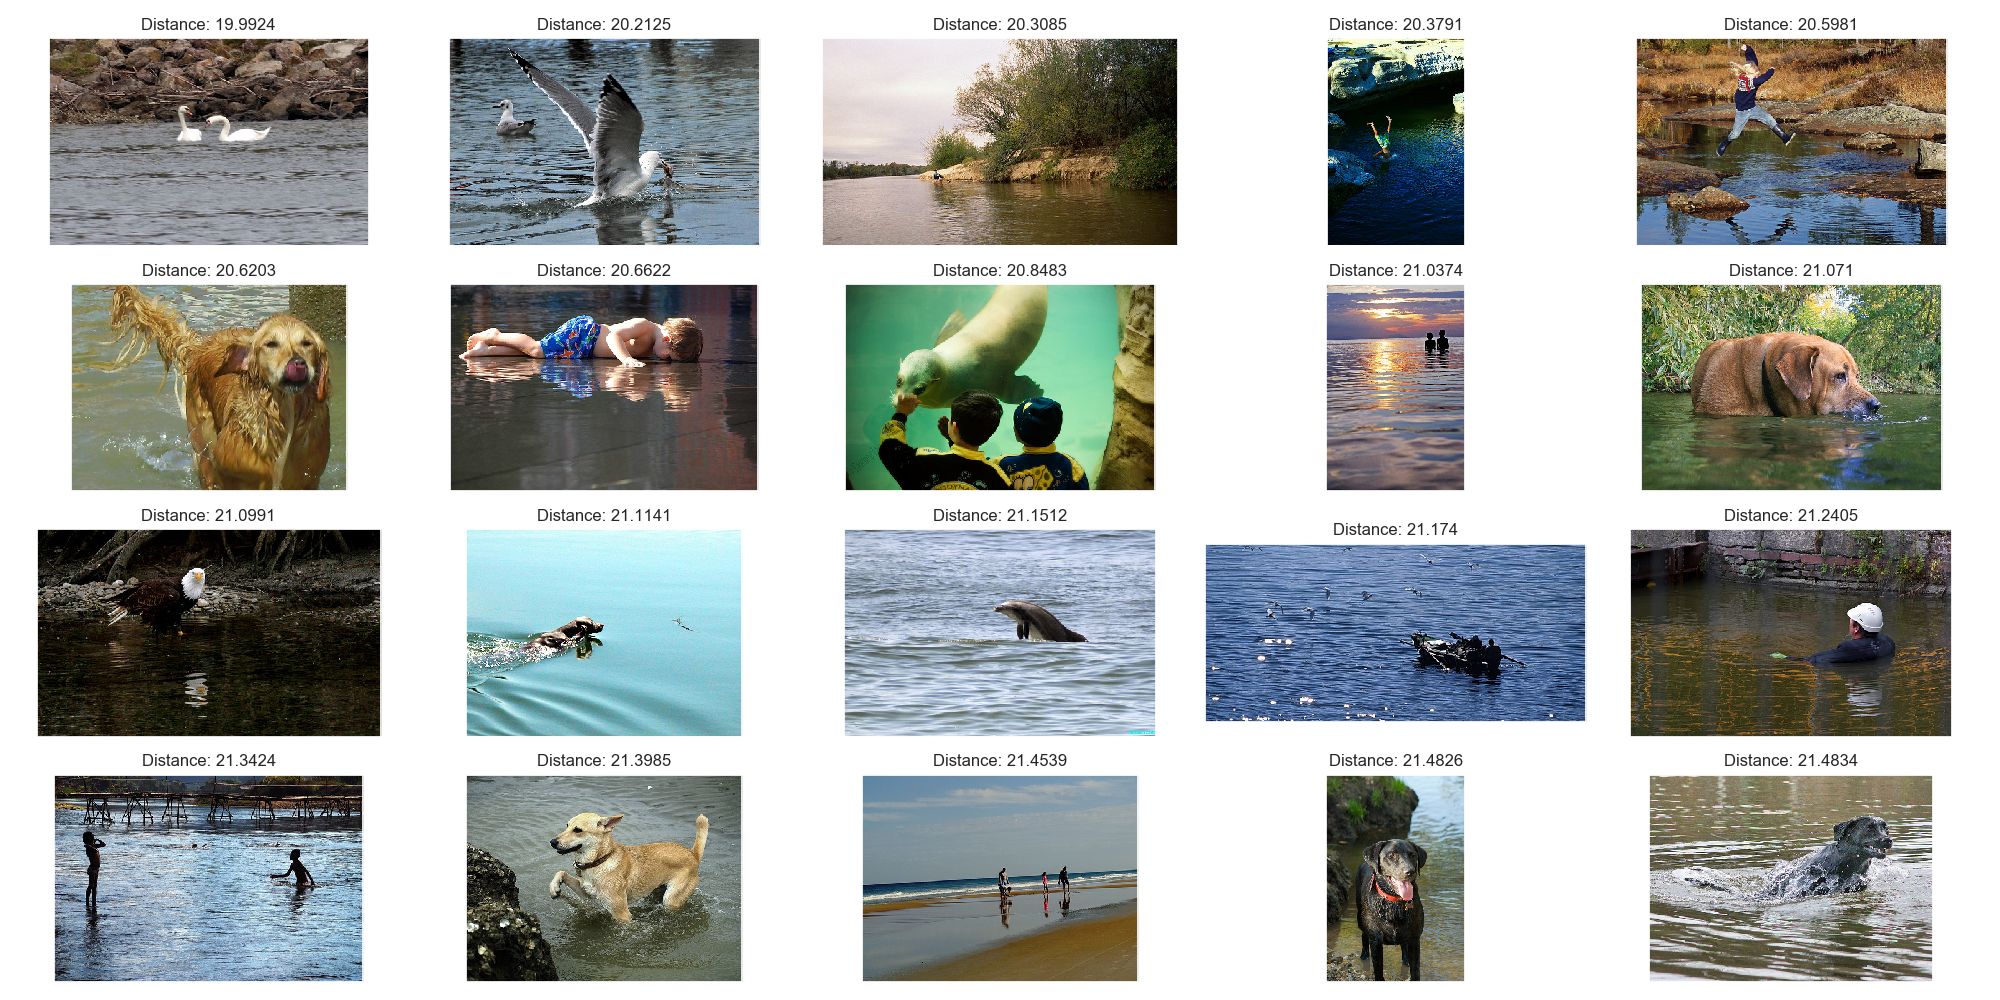
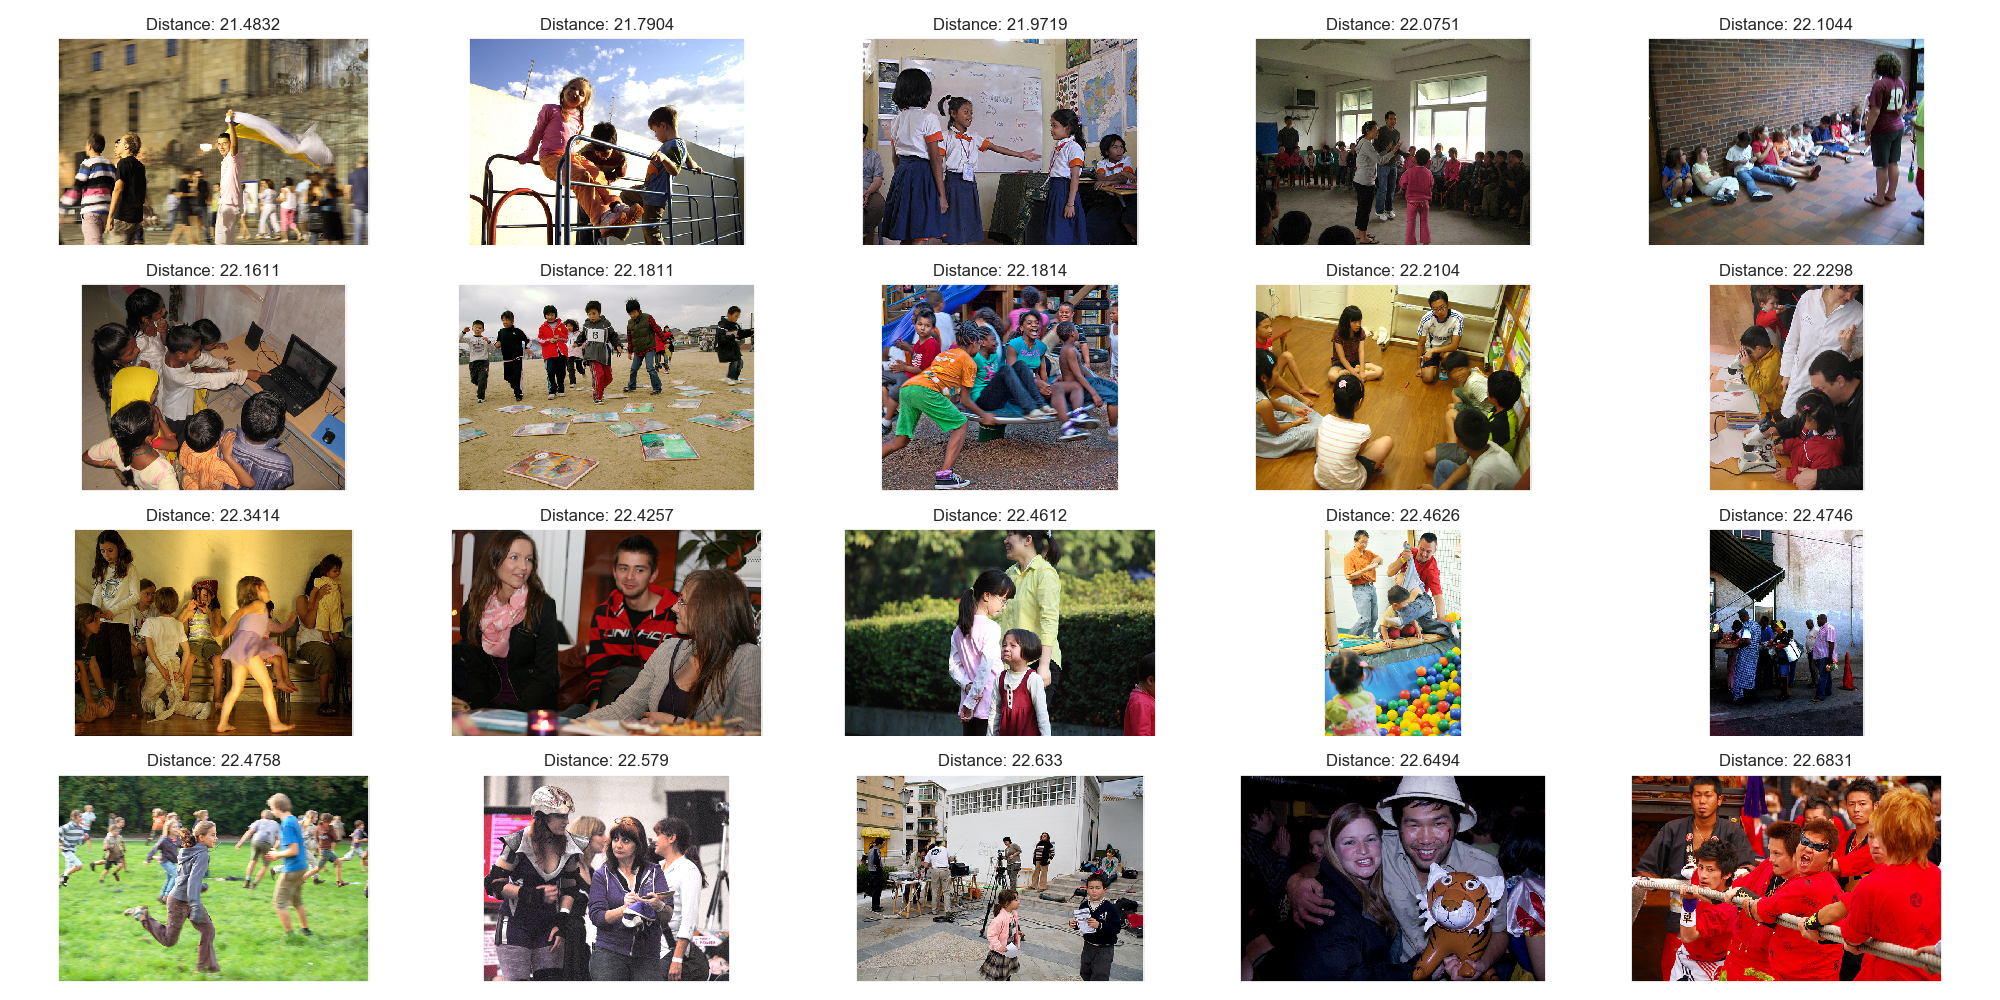
updated figures for readme file

diff --git a/include/search_engine/main.py b/include/search_engine/main.py
@@ -91,20 +91,21 @@ Se_new_caption_tl.prepare_image_database(
     save_dir_database=DATABASE_IMAGE_DIR_TL,
     filename_database=DATABASE_IMAGE_FILE_TL,
     database_mode="all_data",   # test, training, val or all_data"
-    batch_size=512,
+    batch_size=256,
     verbose=True
 )
+
 # %%
 # Step 3: run pipeline
 # show 10 closest images for caption '361092202.jpg#4'
 Se_new_caption_tl.new_caption_pipeline(new_id='361092202.jpg#4', k=10)
 print(Se_new_caption_tl.new)
 plt.tight_layout()
-# plt.savefig("include/output/figures/triplet_loss/fig1_readme.png")
+plt.savefig("include/output/figures/triplet_loss/fig1_readme.png")
 # %%
 # add new caption and show 20 best photos
-Se_new_caption_tl.new_caption_pipeline(new="Water sea swimming", k=20)
-# plt.savefig("include/output/figures/triplet_loss/fig2_readme.png")
+Se_new_caption_tl.new_caption_pipeline(new="Group of children are playing", k=20)
+plt.savefig("include/output/figures/triplet_loss/fig2_readme.png")
 # %% A.2) search engine for new image
 
 # Step 1: create search engine object
@@ -117,6 +118,8 @@ Se_new_image_tl = search_engine.SearchEngine(
     database_captions_path=DATABASE_CAPTION_DIR_TL + DATABASE_CAPTION_FILE_TL,
     image_dir=IMAGE_DIR
 )
+
+
 # %%
 # Step 2: load database (you only need to do this once, except if you have a new model)
 # This will take a moment (1min)
@@ -133,12 +136,13 @@ Se_new_image_tl.prepare_caption_database(
 # Step 3: run pipeline
 # print top 10 captions for image "361092202.jpg"
 Se_new_image_tl.new_image_pipeline(new_id="361092202.jpg", k=10)
-plt.tight_layout()
-# plt.savefig("include/output/figures/triplet_loss/fig3_readme.png")
+plt.savefig("include/output/figures/triplet_loss/fig3_readme.png")
+
 
 # ------------------------------------------------------------------------------------------
 # B) HASHING (PART 2)
 # ------------------------------------------------------------------------------------------
+
 # %% B.1) search engine for new caption
 
 # Step 1: create search engine object
@@ -151,13 +155,19 @@ Se_new_caption_h = search_engine.SearchEngine(
     image_dir=IMAGE_DIR
 )
 # %%
+
+Se_new_caption_h.load_database_images()
+Se_new_caption_h.load_database_captions()
+Se_new_caption_h.get_map10()
+
+# %%
 # Step 2: load database (you only need to do this once, except if you have a new model)
 # This will take a moment (1min)
 Se_new_caption_h.prepare_caption_database(
     path_raw_data=PATH_RAW_CAPTION_FEATURES,
     save_dir_database=DATABASE_CAPTION_DIR_H,
     filename_database=DATABASE_CAPTION_FILE_H,
-    database_mode="all_data",   # test, training, val or all_data"
+    database_mode="test",   # test, training, val or all_data"
     batch_size=512,
     verbose=True
 )
@@ -170,7 +180,7 @@ plt.tight_layout()
 # plt.savefig("include/output/figures/hashing/fig1_readme.png")
 # %%
 # add new caption and show 20 best photos
-Se_new_caption_h.new_caption_pipeline(new="Water sea swimming", k=20)
+Se_new_caption_h.new_caption_pipeline(new="Group of children are playing", k=20)
 # plt.savefig("include/output/figures/hashing/fig2_readme.png")
 
 
@@ -192,7 +202,7 @@ Se_new_image_h.prepare_caption_database(
     path_raw_data=PATH_RAW_CAPTION_FEATURES,
     save_dir_database=DATABASE_CAPTION_DIR_H,
     filename_database=DATABASE_CAPTION_FILE_H,
-    database_mode="all_data",   # test, training, val or all_data"
+    database_mode="test",   # test, training, val or all_data"
     batch_size=1024,
     verbose=True
 )

diff --git a/include/part1/triplet_loss/main.py b/include/part1/triplet_loss/main.py
@@ -38,6 +38,7 @@ SAVE_BOW_MODEL = 'include/output/model/triplet_loss/caption_bow_model.pkl'
 MODEL_JSON_PATH = 'include/output/model/triplet_loss/best_model.json'
 MODEL_WEIGHTS_PATH = 'include/output/model/triplet_loss/best_model.h5'
 TRIPLET_MARGIN = 300
+STEMMING = True
 sns.set()
 # %% read in image model
 image_train, image_val, image_test = preprocessing.read_split_images(path=PATH)
@@ -57,16 +58,14 @@ caption_test = json.load(open('include/output/data/test.json', 'r'))
 # %% clean captions (don't run this more than once or
 # you will prune your caption dictionary even further as it has the same variable name)
 
-# experiment with it: my experience: seems to work better when training
-stemming = True
 caption_train = preprocessing.clean_descriptions(
-    descriptions=caption_train, min_word_length=2, stem=stemming, unique_only=False
+    descriptions=caption_train, min_word_length=2, stem=STEMMING, unique_only=False
 )
 caption_val = preprocessing.clean_descriptions(
-    descriptions=caption_val, min_word_length=2, stem=stemming, unique_only=False
+    descriptions=caption_val, min_word_length=2, stem=STEMMING, unique_only=False
 )
 caption_test = preprocessing.clean_descriptions(
-    descriptions=caption_test, min_word_length=2, stem=stemming, unique_only=False
+    descriptions=caption_test, min_word_length=2, stem=STEMMING, unique_only=False
 )
 
 # %% convert to bow
@@ -169,7 +168,7 @@ caption_model, image_model = load_model.load_submodels(
 # %%
 # -----------------------------------------
 # Test caption ranking on TEST DATA
-# ----------------------------------------
+# -----------------------------------------
 # index 1 are the positive captions
 # reshape=True if you only have one vector
 

diff --git a/include/part2_skeleton/losses.py b/include/part2_skeleton/losses.py
@@ -31,10 +31,8 @@ def biranking_loss(a, b, margin, eps=1e-8):
 def cross_modal_hashing_loss(S, F, G, B, gamma, eta):
     # enforce cross-modal similarity
     theta = 0.5 * torch.mm(F.t(), G)
-    dumi1 = S.type(torch.float) * theta.type(torch.float)
-    dumi2 = torch.log(1 + torch.exp(theta)).type(torch.float)
-    term1 = - torch.sum(dumi1 - dumi2)
-    #term1 = - torch.sum((S * theta - torch.log(1 + torch.exp(theta))))
+
+    term1 = - torch.sum((S * theta - torch.log(1 + torch.exp(theta))))
     # enforce binary codes to preserve cross-modal similarity
     term2 = gamma * (torch.norm(B - F) ** 2 + torch.norm(B - G) ** 2)
 
@@ -44,8 +42,8 @@ def cross_modal_hashing_loss(S, F, G, B, gamma, eta):
     loss = torch.sum(term1 + term2 + term3)
     num_sample = S.size(0)
 
-    # print('loss {} => {}'.format(loss.item()/num_sample, (t1.item() / num_sample, t2.item() / num_sample)))
-    #print('loss {} => {}'.format(loss.item() / num_sample,
-    #                             (term1.item() / num_sample, term2.item() / num_sample, term3.item() / num_sample)))
+    # print('loss {} => {}'.format(loss.item()/num_sample, (term1.item() / num_sample, term2.item() / num_sample)))
+    print('loss {} => {}'.format(loss.item() / num_sample,
+                                 (term1.item() / num_sample, term2.item() / num_sample, term3.item() / num_sample)))
 
     return loss / num_sample

diff --git a/include/part2_skeleton/main.py b/include/part2_skeleton/main.py
@@ -28,7 +28,7 @@ parser.add_argument('--gpu', type=int, default=0, metavar='N',
                     help='id of gpu to use')
 parser.add_argument('--batch_size', type=int, default=128, metavar='N',
                     help='input batch size for training (default: 128)')
-parser.add_argument('--epochs', type=int, default=20, metavar='N',
+parser.add_argument('--epochs', type=int, default=1, metavar='N',
                     help='number of epochs to train (default: 100)')
 parser.add_argument('--start_epoch', type=int, default=1, metavar='N',
                     help='number of start epoch (default: 1)')
@@ -206,8 +206,6 @@ def train(train_loader, model, S, optimizer, epoch):
 def test(test_loader, model, image_labels, caption_labels):
     # switch to evaluation mode
     model.eval()
-
-    # TODO: Iterate over test set and evaluate MAP@10
 
     image_labels = image_labels.to_numpy()
     caption_labels = np.array(caption_labels)

diff --git a/include/search_engine/main_interactive.py b/include/search_engine/main_interactive.py
@@ -27,7 +27,7 @@ PATH_RAW_IMAGE_FEATURES = 'include/input/image_features.csv'
 # path raw caption features
 PATH_RAW_CAPTION_FEATURES = "include/input/results_20130124.token"
 # directory containg the images
-IMAGE_DIR = "data/flickr30k_images/flickr30k_images/"
+IMAGE_DIR = "include/input/flickr30k-images/"
 
 # ***********************************************
 # A) TRIPLET LOSS MODEL (TL) (PART 1)
@@ -38,7 +38,7 @@ PATH_TRANSFORMER_TL = 'include/output/model/triplet_loss/caption_bow_model.pkl'
 # path of trained model
 MODEL_PATH_TL = 'include/output/model/triplet_loss/best_model.json'
 # path of weigths of trained model
-WEIGHT_PATH_TL = 'include/output/model/triplet_loss_pj/best_model.h5'
+WEIGHT_PATH_TL = 'include/output/model/triplet_loss/best_model.h5'
 # directory to save image database
 DATABASE_IMAGE_DIR_TL = "include/output/data/triplet_loss/database_images/"
 # filename of image database

diff --git a/include/search_engine/load_engine/search_engine.py b/include/search_engine/load_engine/search_engine.py
@@ -23,7 +23,7 @@ from include.preprocess_data import preprocessing
 from include.util.util import print_progress_bar
 from include.util.util import get_batch
 from include.part2_skeleton.models import BasicModel
-from ranking import ranking
+from include.ranking import ranking
 
 
 class SearchEngine:
@@ -271,6 +271,8 @@ class SearchEngine:
         lowest_ids = self.database["id"][lowest_idx].flatten().tolist()
         # return in dictionary format
         self.ranking = dict(zip(lowest_ids, lowest_dist))
+
+
 
     def get_split_idx(self, path="include/input/", mode="test"):
 

diff --git a/include/part2_skeleton/SGD.py b/include/part2_skeleton/SGD.py
@@ -91,7 +91,7 @@ class SGD(Optimizer):
             for p in group['params']:
                 if p.grad is None:
                     continue
-                print(p.grad)
+                # print(p.grad)
                 d_p = p.grad.data
                 if weight_decay != 0:
                     d_p.add_(weight_decay, p.data)
